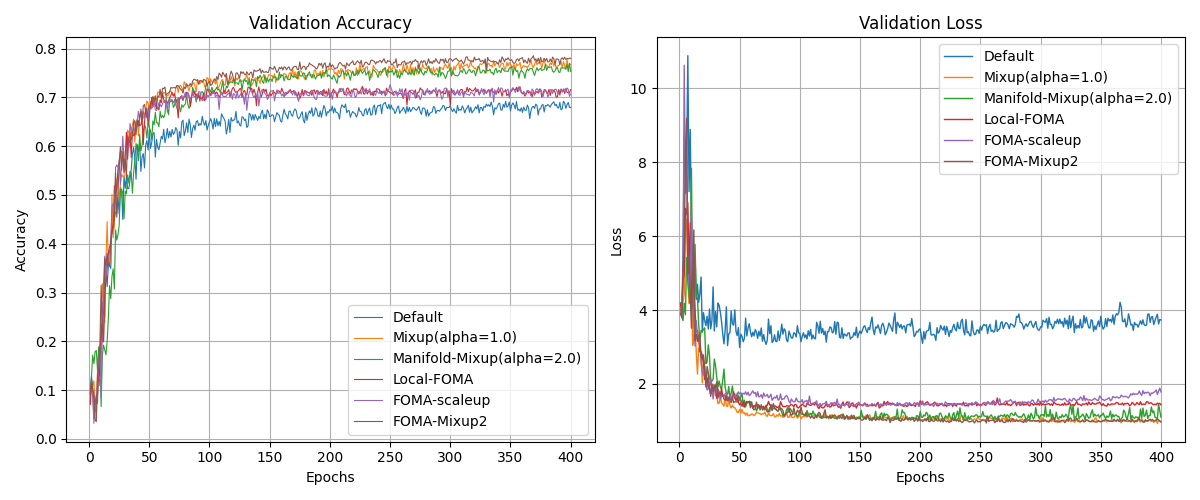
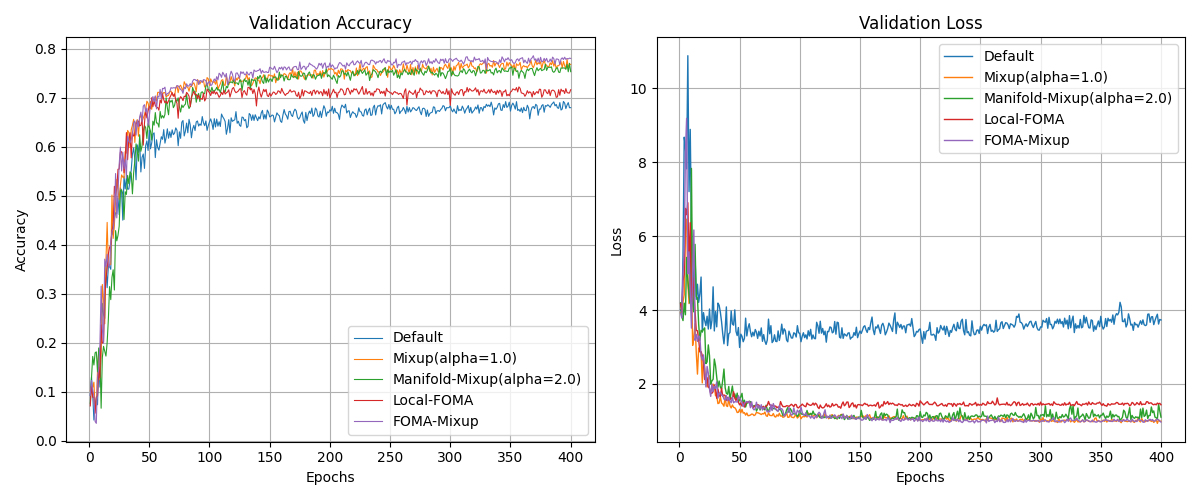
aus

diff --git a/train.py b/train.py
@@ -19,14 +19,14 @@ from torch.utils.data import DataLoader, random_split, Subset
 from src.methods.foma import foma
 
 augmentations = [
-    # "Default",
+    "Default",
     # "Conf-Mixup",
     
     # "PCA",
     # "SVD",
     # "Cholesky",
 
-    # "Mixup",
+    "Mixup",
 
     # "CutMix",
     # "AugMix",
@@ -40,7 +40,7 @@ augmentations = [
     # "RegMixup",
     # "Ent-Mixup",
     
-    # "Manifold-Mixup",
+    "Manifold-Mixup",
     # "Manifold-Mixup(alpha=0.5)",
     # "Manifold-Mixup(alpha=1.0)",
     # "Manifold-Mixup(alpha=5.0)",
@@ -52,14 +52,14 @@ augmentations = [
     # "Mixup(alpha=2.0)",
     # "Mixup(alpha=5.0)",
 
-    # "FOMA-Mixup",
+    "FOMA-Mixup",
     # "FOMA-Mixup2",
-    "FOMA-scaleup-Mixup",
+    # "FOMA-scaleup-Mixup",
     # "FOMA-Manifold-Mixup",
     # "FOMA-scaleup"
     # "Mixup+FOMA",
     # "FOMix",
-    # "Local-FOMA",
+    "Local-FOMA",
     # "FOMA",
     # "FOMA-knn-Curriculum",
 
@@ -72,8 +72,8 @@ augmentations = [
 def main():
     for i in range(1):
         parser = argparse.ArgumentParser()
-        parser.add_argument("--epochs",     type=int, default=400)
-        parser.add_argument("--data_type",  type=str, default="cifar100",  choices=["stl10", "cifar100", "cifar10"])
+        parser.add_argument("--epochs",     type=int, default=300)
+        parser.add_argument("--data_type",  type=str, default="cifar10",  choices=["stl10", "cifar100", "cifar10"])
         parser.add_argument("--model_type", type=str, default="wide_resnet_28_10", choices=["resnet18", "resnet101", "wide_resnet_28_10"])
         args = parser.parse_args() 
 

diff --git a/result.py b/result.py
@@ -47,12 +47,12 @@ def main():
 
         # "FOMA-Manifold-Mixup",
         # "FOMA",
-        # "FOMA-scaleup",
+        # "FOMA-scaleup-Mixup",
         "Local-FOMA",
         # "FOMA-Mixup",
         # "FOMA-knn-Curriculum",
         # "FOMA_latent_random",
-        "FOMA-scaleup",
+        # "FOMA-scaleup",
 
         # "FOMA_fixed_input",
         # "FOMA_fixed_latent",
@@ -185,6 +185,8 @@ def plot_comparison_graph(model_type, augmentations, data_type, epoch, iteration
             augment = "Manifold-Mixup(alpha=2.0)"
         elif augment == "SVD":
             augment = "PCA"
+        elif augment == "FOMA-Mixup2":
+            augment = "FOMA-Mixup"
         plt.plot(epochs, val_acc, linestyle='solid', linewidth=0.8, label=f'{augment}')
         
     plt.title('Validation Accuracy')
@@ -216,6 +218,8 @@ def plot_comparison_graph(model_type, augmentations, data_type, epoch, iteration
             augment = "Manifold-Mixup(alpha=2.0)"
         elif augment == "SVD":
             augment = "PCA"
+        elif augment == "FOMA-Mixup2":
+            augment = "FOMA-Mixup"
         plt.plot(epochs, val_loss, linestyle='solid', linewidth=1, label=f'{augment}')
         
     plt.title('Validation Loss')

diff --git a/src/methods/foma.py b/src/methods/foma.py
@@ -140,7 +140,7 @@ def compute_foma_loss(model, images, labels, k, lambda_almp=1.0, device='cuda', 
     loss_orig = F.cross_entropy(logits_orig, labels)
 
     # FOMAによる特徴摂動
-    features_foma, labels_foma = local_foma(features, labels, num_classes=100, alpha=1.0, rho=0.9, k=k, scaleup=scaleup)
+    features_foma, labels_foma = local_foma(features, labels, num_classes=10, alpha=1.0, rho=0.9, k=k, scaleup=scaleup)
     logits_foma = model.linear(features_foma)
     loss_foma = F.cross_entropy(logits_foma, labels_foma)
 
